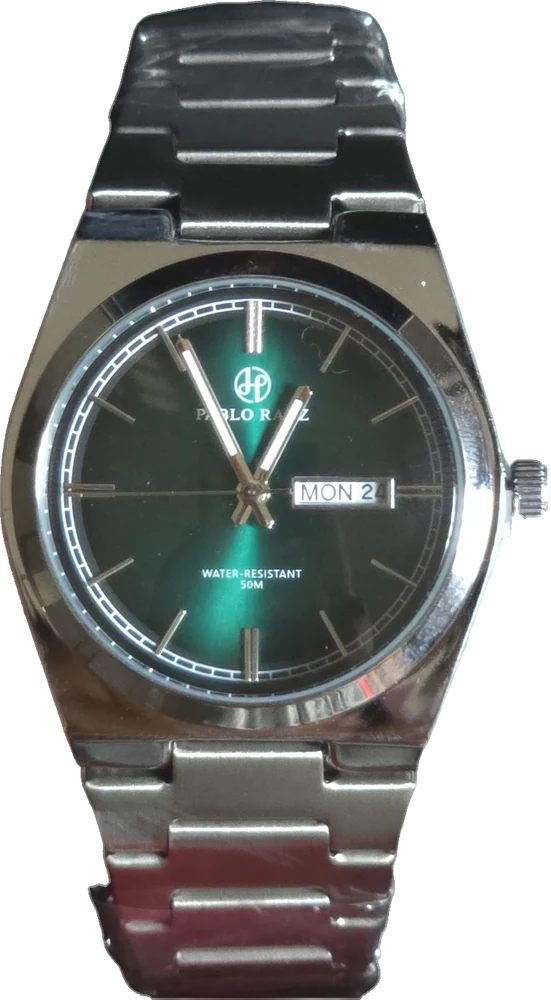
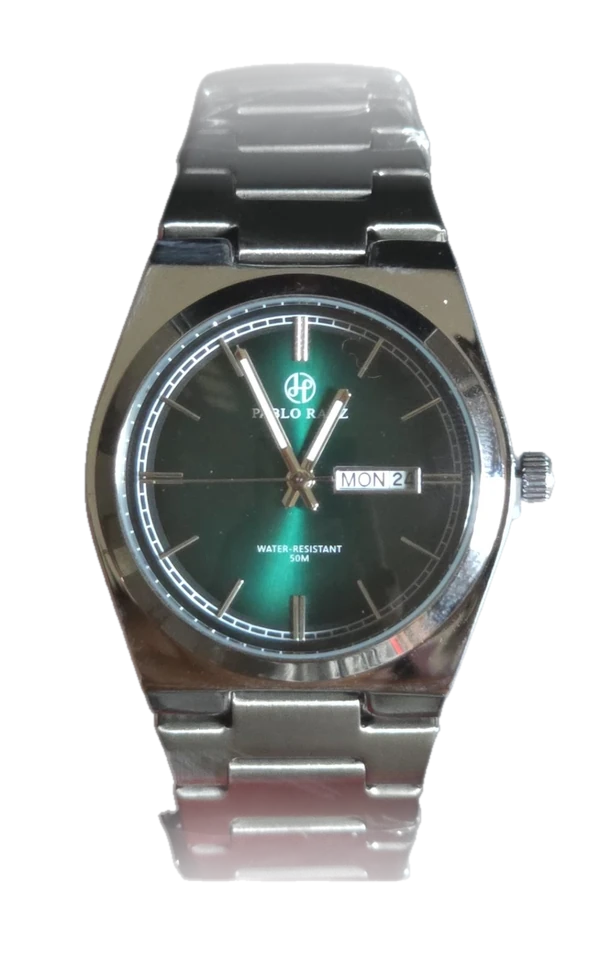
Seleção de Natal com recortes padronizados
Recortes novos a partir das fotos reais (Riviera, Rosa dos Ventos,
Sunlifex e Esmeralda): mostrador de frente, mesmo tamanho e mesma
altura, com um pedaço da pulseira que some aos poucos nas pontas. O
Sunlifex foi endireitado. Os pedestais têm a mesma altura e o relógio
fica atrás da borda deles, como numa vitrine. O Rosa dos Ventos entra
no lugar do Romano.

Claude-Session: https://claude.ai/code/session_01DpaiwwZEn1kQX1yrvQYFoX

diff --git a/assets/natal.css b/assets/natal.css
@@ -163,7 +163,8 @@ html.is-natal:has(.header.is-hidden) .natal-strip { transform: translateY(-100%)
 .xs-gift svg { display: block; width: 100%; height: auto; }
 .xs-g1 { top: 2%; right: 0; width: clamp(80px, 9vw, 140px); } .xs-g2 { top: 12%; right: 11%; width: clamp(60px, 6.5vw, 100px); animation-delay: -2s; }
 .xs-item { position: relative; z-index: 1; display: flex; flex-direction: column; align-items: center; color: var(--ink); min-width: 0; }
-.xs-watch { position: relative; z-index: 2; display: block; width: 74%; margin-bottom: -10%; transition: transform .6s var(--ease-out); }
+.xs-watch { position: relative; z-index: 0; display: block; width: 78%; margin-bottom: -17%; transition: transform .6s var(--ease-out); }
+/* o relógio fica atrás da borda do pedestal: a pulseira de baixo entra nele, como numa vitrine */
 .xs-watch img { display: block; width: 100%; height: auto; filter: drop-shadow(0 18px 18px rgba(0,0,0,.35)); }
 .xs-item:hover .xs-watch { transform: translateY(-6px); }
 .xs-ped { position: relative; z-index: 1; display: block; width: 86%; height: calc(var(--h) * clamp(150px, 20vw, 280px)); border-radius: 0 0 50% 50% / 0 0 16px 16px;

diff --git a/assets/natal.js b/assets/natal.js
@@ -283,7 +283,7 @@
           <span class="k-float xs-s1" aria-hidden="true">${star()}</span><span class="k-float xs-s2" aria-hidden="true">${star('silver')}</span><span class="k-float xs-s3" aria-hidden="true">${star()}</span>
           <span class="xs-gift xs-g1" aria-hidden="true">${gift({ body: '#E9E7E2', dark: '#bdb9b0', band: '#C51D32', w: 150, h: 120 })}</span>
           <span class="xs-gift xs-g2" aria-hidden="true">${gift({ w: 120, h: 100 })}</span>
-          ${S.map((s, i) => `<a class="xs-item" href="${LR.url.product(s.p)}" style="--h:${[.62, .82, .52, .72][i % 4]}" data-reveal>
+          ${S.map((s, i) => `<a class="xs-item" href="${LR.url.product(s.p)}" style="--h:.62" data-reveal>
             <span class="xs-watch"><img src="${s.recorte}" alt="${esc(s.p.name)}" loading="lazy"></span>
             <span class="xs-ped" aria-hidden="true"><i></i></span>
             <span class="xs-info"><b>${esc(s.p.name)}</b><span class="num">${esc(price(s.p))}</span>${LR.stockLabel(s.p) ? `<span class="xs-stock">${esc(LR.stockLabel(s.p))}</span>` : ''}</span></a>`).join('')}

diff --git a/assets/data.js b/assets/data.js
@@ -159,7 +159,7 @@ LR.natal = {
   // seleção de Natal: relógios recortados sobre pedestais
   selecao: [
     { id: 'technos-riviera', recorte: 'assets/img/natal/recortes/riviera.webp' },
-    { id: 'pablo-raez-romano', recorte: 'assets/img/natal/recortes/romano.webp' },
+    { id: 'pablo-raez-rosa-dos-ventos', recorte: 'assets/img/natal/recortes/rosa.webp' },
     { id: 'sunlifex-cronografo', recorte: 'assets/img/natal/recortes/sunlifex.webp' },
     { id: 'pablo-raez-esmeralda', recorte: 'assets/img/natal/recortes/esmeralda.webp' },
   ],
